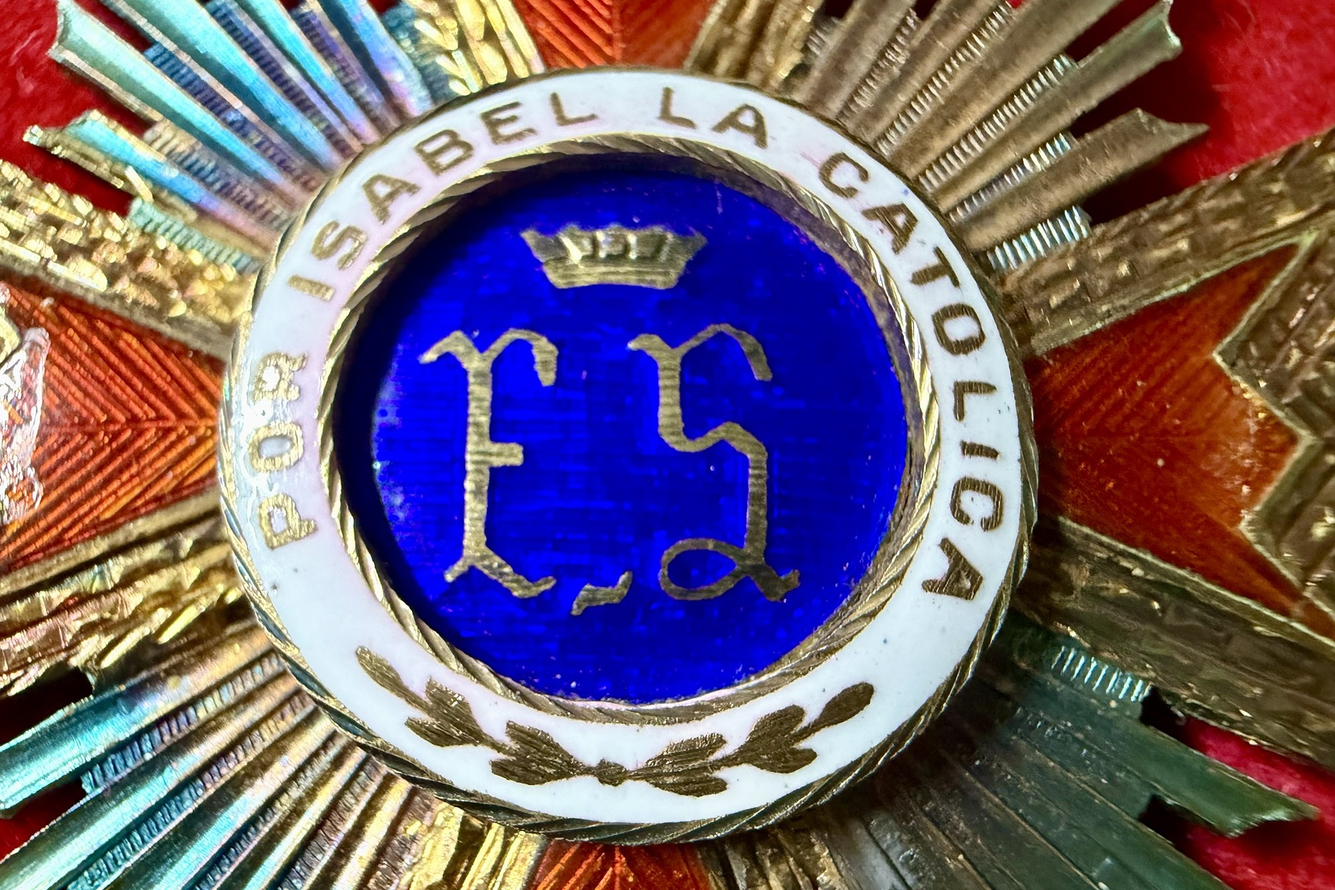
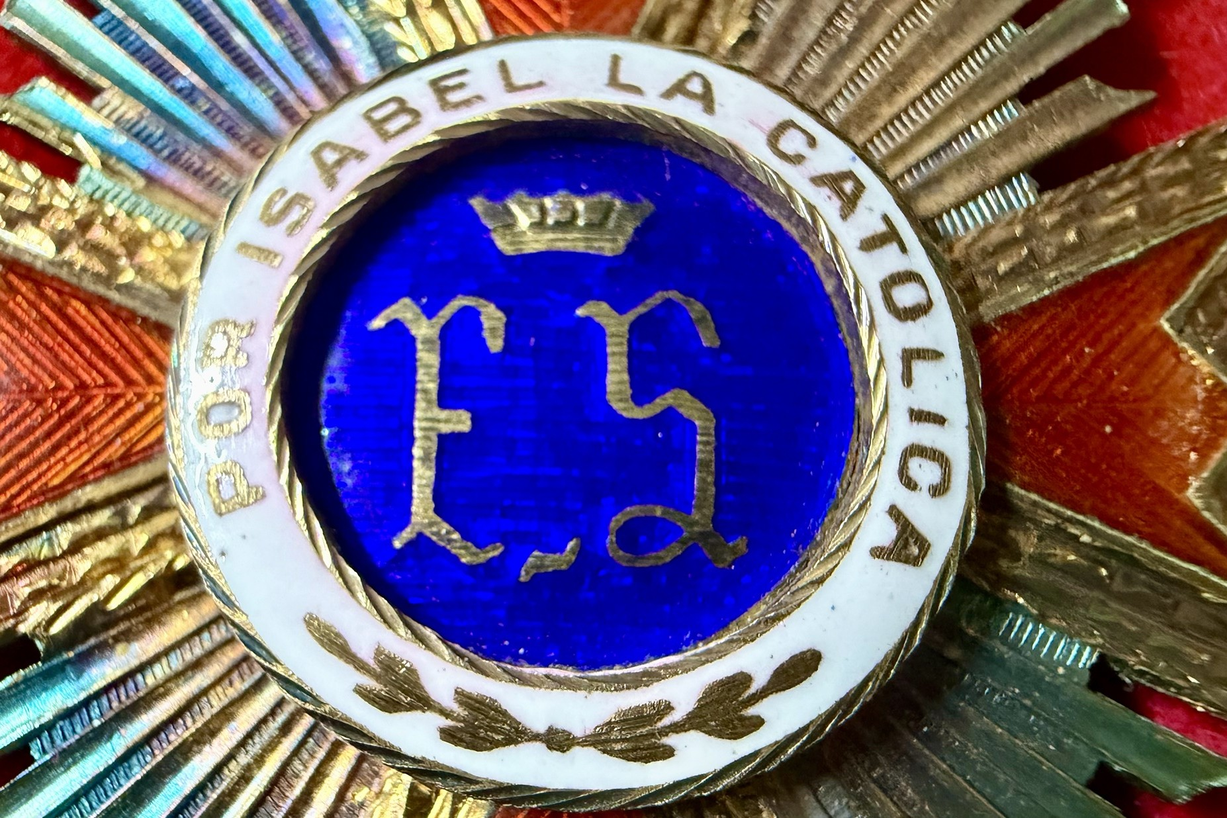
c006 背面章心特写收紧裁剪，避开左缘反光与右缘瑕疵
Claude-Session: https://claude.ai/code/session_0146WwfpqSoST3wS5kAsYEcA

diff --git a/_notes/站点手册.md b/_notes/站点手册.md
@@ -163,7 +163,7 @@
 - 原则：封面为抠图的勋章与珠宝，其细部图（含近景）同样抠图，背景与封面一致；礼服的领、袖、纽扣、商标近景不抠（背景就是衣服本身，分割会产生空洞与撕边，已试样否决）；封面保留盒子或灰底者，其细部图保持照片原样。
 - c013 札记扩为八张（2026 年 10 月）：末行补盖内衬（c013h）与盒盖外面（c013g），内衬在左，策展人摄。盒盖两张中取较清晰、无反光的一张，按盒缘四角做透视校正为正对，再抠图置浅灰米底、补到 3:4（与条目封面同法，带投影）；内衬两张中取对焦清楚的近拍，文字与左缘倾斜不足一度，未作校正。
 - c007 札记由 grid4 扩为 grid6（2026 年 10 月）：封面、c007b、c007e 中心花押特写、c007d、c007c、c007f 悬挂件印记特写（策展人摄，3:4）。
-- c006 札记为八张图（2026 年 10 月）：封面、背面、正面章心（c006c）、背面章心「F Y」花押与环铭（c006i，策展人摄，3:2）、正面斜拍（c006e）、正面下臂（c006f）、背面上臂与悬挂（c006d）、盒盖 Celada 店标（c006h）。正背两枚章心特写并排于第二行。背面下臂 c006g 与正面下臂构图重复，已撤下，存 `_archive/chronicles/c006g.jpg`。 c006h 为策展人手机重拍的盒盖店标（2576×1932，三张中取对比最高、光照最匀的一张），按 3:2 以店标居中裁为 `c006h_standard.jpg`（1800×1200）；卖家低清原图存 `_archive/chronicles/c006h_v1.jpg`。
+- c006 札记为八张图（2026 年 10 月）：封面、背面、正面章心（c006c）、背面章心「F Y」花押与环铭（c006i，策展人摄；按 3:2 收紧裁剪，去掉左缘反光与右缘珐琅瑕疵的大部分，章心与环铭保持完整）、正面斜拍（c006e）、正面下臂（c006f）、背面上臂与悬挂（c006d）、盒盖 Celada 店标（c006h）。正背两枚章心特写并排于第二行。背面下臂 c006g 与正面下臂构图重复，已撤下，存 `_archive/chronicles/c006g.jpg`。 c006h 为策展人手机重拍的盒盖店标（2576×1932，三张中取对比最高、光照最匀的一张），按 3:2 以店标居中裁为 `c006h_standard.jpg`（1800×1200）；卖家低清原图存 `_archive/chronicles/c006h_v1.jpg`。
 - c011 札记为八张图，两列四行：封面、背面、正面章心、斜拍全貌（c011d）、背面章心、叶冠侧影，末行为两处印记——c011g 下方叶结上的菱形匠记特写、c011h 悬环上的两枚印记（2026 年 10 月，策展人摄）。叶结特写有远近两版，取近拍一版（印记约 250 像素宽，另一版约 120 像素）；首版低清特写存 `_archive/chronicles/c011g_v1.jpg`。
 - `CROP_TOP`：细部图顶端拍进了所挂的链条时，抠图前先按比例裁去顶部，刚好留下器物自己的吊环。目前没有条目在用（曾用于 c016 旧细部图）。
 - `GROUND_SWAP`：黑丝绒上拍的银色器物，取景不动，抠出器物后把丝绒（含镂空处透出的丝绒与浮毛）换成 `#161414`，不移动、不缩放。目前为 t018 及其札记细部图 c017b、c017c（2026 年 10 月，策展人定）。c017d 为背面印记特写（「830」与 KP 王冠盾形印记），画面全是金属，不做处理，直接用原图。c017 札记「银里的铂金」（craft 组，2026 年 10 月），图组为 grid4，左上、右上、左下、右下依次为：t018 封面、c017b 上半部（长杆、叶饰与花簇）、c017c 下半部（圆环与梨形坠）、c017d 背面印记。
